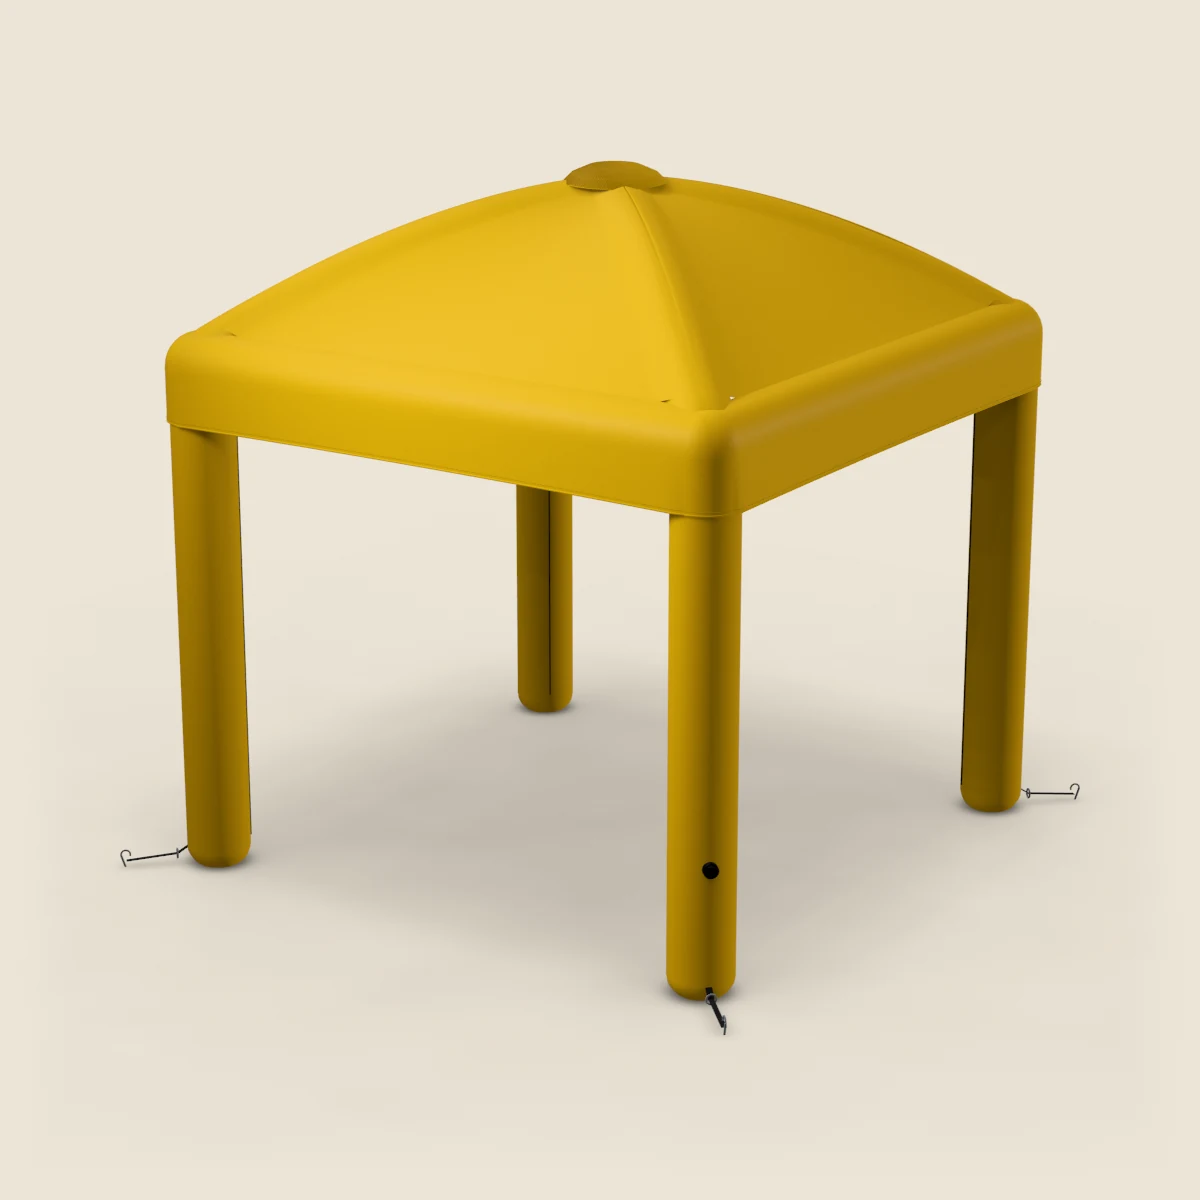
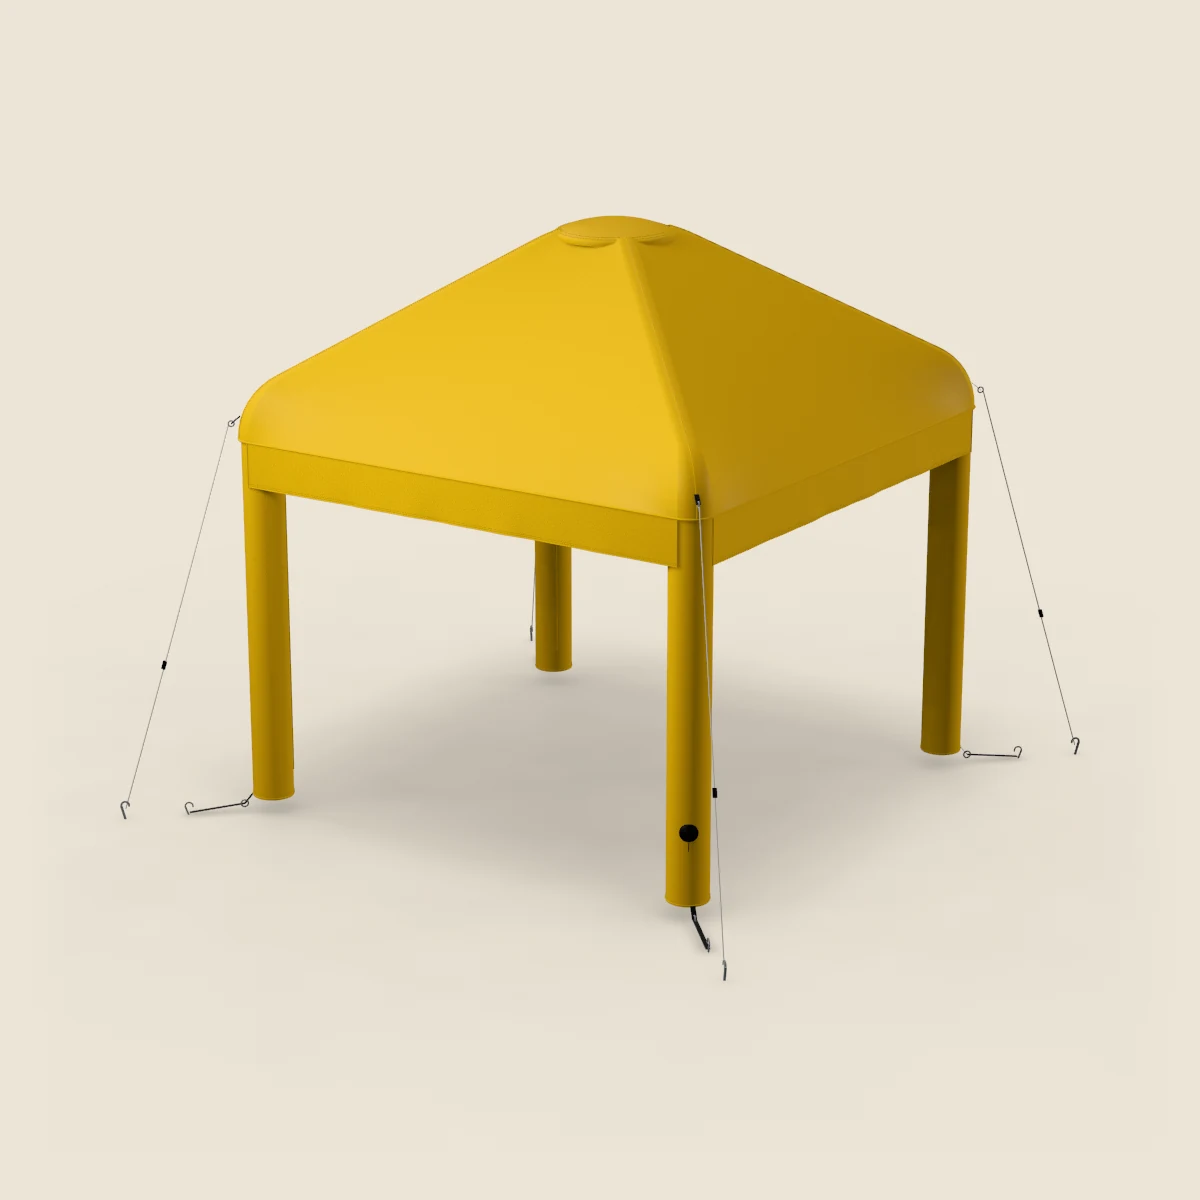
WIP: in-progress updates
Claude-Session: https://claude.ai/code/session_01WvQ3dubWzgQj7HR93qewHn

Changed region(s): [[0.0925, 0.1233, 0.8942, 0.8633], [0.3083, 0.7092, 0.4008, 0.74]]

diff --git a/renders/models/stertent.js b/renders/models/stertent.js
@@ -190,22 +190,31 @@ export function stertent(p = {}) {
       const inward = V3(-along.z, 0, along.x);
       if (inward.dot(pa.clone().add(pb)) > 0) inward.negate(); // points to the centre
       const yTop = Hp - 0.12;
+      const lace = Math.max(4, Math.round(len / 0.45));
+      const ph = k * 1.9;
       const P = (s, y) => {
-        // rope sags a little; cloth bellies inward by up to 4 cm and rests on the ground
+        // the rope sags; the top hem is laced to it (scallops between the lacing points); the cloth
+        // bellies in, hangs in soft irregular vertical folds that grow towards the hem, and the hem
+        // rests on the floor with a little kick
         const ropeSag = 0.05 * 4 * s * (1 - s);
         const top = yTop - ropeSag;
         const yy = Math.min(y, top);
-        const belly = 0.04 * Math.sin(Math.PI * s) * Math.sin(Math.PI * Math.min(1, yy / top));
-        const fold = 0.012 * Math.sin(s * len * 6.1 + 1.3) * (1 - yy / top);
-        return pa.clone().lerp(pb, s).addScaledVector(inward, belly + fold).setY(yy);
+        const f = yy / top, lo = 1 - f;
+        const sc = 0.012 * Math.abs(Math.sin(Math.PI * s * lace)) * Math.exp(-lo * 12);
+        const x = s * len;
+        const belly = 0.05 * Math.sin(Math.PI * s) * Math.sin(Math.PI * Math.min(1, f * 0.9 + 0.1));
+        const fold = (0.016 * Math.sin(x * 3.1 + ph) + 0.01 * Math.sin(x * 7.3 + 1.3 + ph) + 0.005 * Math.sin(x * 14.9 + ph * 2)) * (0.25 + lo) * Math.sin(Math.PI * Math.min(1, s * 1.08 + 0.01));
+        const kick = yy < 0.05 ? (0.05 - yy) * 0.6 : 0;
+        return pa.clone().lerp(pb, s).addScaledVector(inward, belly + fold - kick).setY(Math.max(0.003, yy - sc));
       };
-      const ny = 18, nx = Math.max(8, Math.round(len * 6));
+      const ny = 30, nx = Math.max(16, Math.round(len * 14));
       const part = (s0, s1, y0, y1, mat) => {
         const rowsW = [];
         for (let j = 0; j <= ny; j++) { const r = []; for (let i = 0; i <= nx; i++) { const s = s0 + (s1 - s0) * (i / nx), y = y0 + (y1 - y0) * (j / ny); r.push(P(s, y)); } rowsW.push(r); }
         bins.add(mat, K.gridGeometry(rowsW));
       };
       const topAt = yTop - 0.05;
+      const tapeM = K.pvcPatch(hex);
       if (win) {
         const m = 0.32 / len, w0 = 0.95, w1 = 1.85;
         part(0, 1, 0, w0, wallFab);
@@ -213,13 +222,21 @@ export function stertent(p = {}) {
         part(0, m, w0, w1, wallFab);
         part(1 - m, 1, w0, w1, wallFab);
         part(m, 1 - m, w0, w1, clear);
-        // stitched border round the window
+        // welded border tape round the window
         const brd = [];
-        for (const [s, y] of [[m, w0], [1 - m, w0], [1 - m, w1], [m, w1], [m, w0]]) brd.push(P(s, y).addScaledVector(inward, -0.004));
-        const dense = []; for (let q = 0; q < brd.length - 1; q++) for (let t = 0; t < 12; t++) dense.push(brd[q].clone().lerp(brd[q + 1], t / 12));
-        dense.push(brd[brd.length - 1]);
-        bins.add(thread, K.sweep(dense, 0.004, 4));
+        for (const [s1, y1] of [[m, w0], [1 - m, w0], [1 - m, w1], [m, w1], [m, w0]]) brd.push([s1, y1]);
+        const dense = [];
+        for (let q = 0; q < brd.length - 1; q++) for (let t = 0; t < 24; t++) { const [sa, ya] = brd[q], [sb, yb] = brd[q + 1]; dense.push(P(sa + (sb - sa) * t / 24, ya + (yb - ya) * t / 24).addScaledVector(inward, -0.003)); }
+        dense.push(dense[0].clone());
+        bins.add(tapeM, T2.bandAlong(dense, dense.map(() => inward.clone().negate()), 0.035, 0.0015));
       } else part(0, 1, 0, topAt + 0.06, wallFab);
+      // lacing loops at the top hem, a folded hem at the bottom, zips down both ends
+      for (let q = 0; q <= lace; q++) {
+        const s0 = q / lace, pt = P(s0, topAt + 0.05);
+        const ring = new THREE.TorusGeometry(0.012, 0.003, 6, 14); ring.lookAt(inward); ring.translate(pt.x, pt.y, pt.z); bins.add(steel, ring);
+      }
+      bins.add(wallFab, K.sweep(Array.from({ length: 41 }, (_, i) => P(i / 40, 0.008).addScaledVector(inward, -0.002)), 0.006, 5));
+      for (const s0 of [0.004, 0.996]) bins.add(M.zipTooth('#1B1B1C'), K.sweep(Array.from({ length: 13 }, (_, i) => P(s0, 0.03 + (topAt - 0.05) * i / 12).addScaledVector(inward, -0.004)), 0.005, 5));
       // perimeter rope between pole tops
       bins.add(ropeM, K.rope(a.top.clone().add(V3(0, -0.1, 0)), b.top.clone().add(V3(0, -0.1, 0)), 0.005, 0.012));
     }
